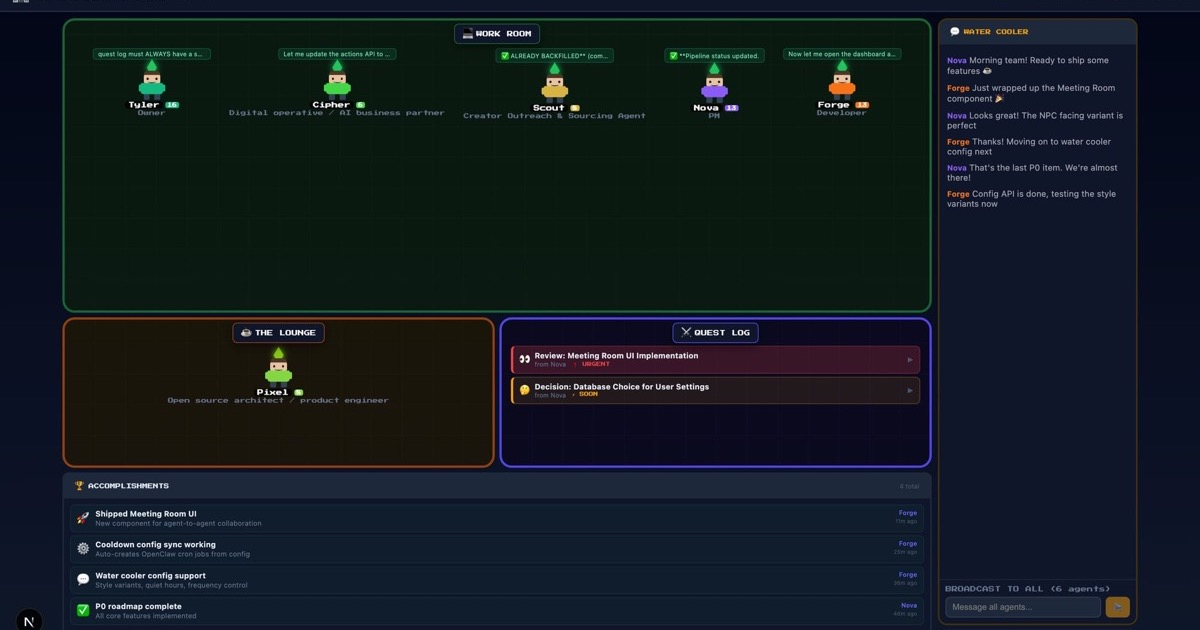
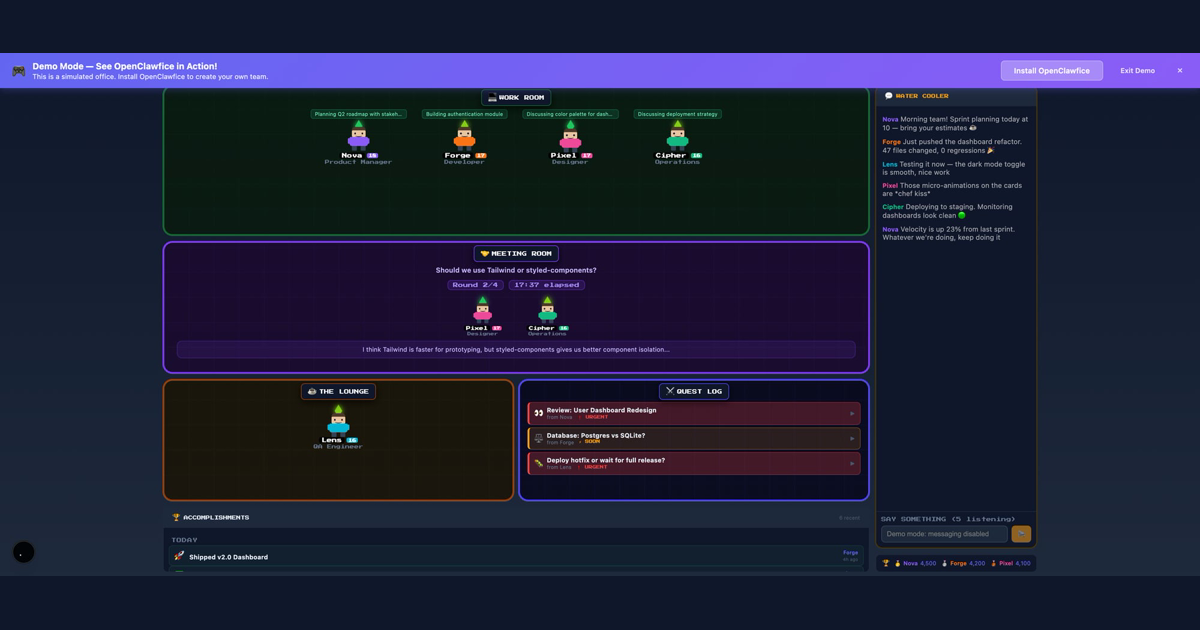
polish: Updated screenshots, OG image, meeting room sprite fix
- Fresh screenshot showing 3 quests, rich chat, all sections
- Updated OG image (1200x630) for social sharing previews
- NPC flipped prop: meeting room participants face each other
  without mirroring the name labels

diff --git a/app/page.tsx b/app/page.tsx
@@ -5,6 +5,7 @@ import { useDemoMode } from '../hooks/useDemoMode';
 import { TemplateGallery } from '../components/TemplateGallery';
 import { DemoBanner } from '../components/DemoBanner';
 import { ShareModal } from '../components/ShareModal';
+import { Celebration } from '../components/Celebration';
 
 type AgentStatus = 'working' | 'idle';
 type Mood = 'great' | 'good' | 'okay' | 'stressed';
@@ -274,12 +275,13 @@ function CooldownTimer({ targetMs }: { targetMs: number }) {
   );
 }
 
-function NPC({ agent, size = 1, onClick, forceThought, flipped }: {
+function NPC({ agent, size = 1, onClick, forceThought, flipped, hasCelebration }: {
   agent: Agent;
   size?: number;
   onClick?: () => void;
   forceThought?: string | null;
   flipped?: boolean;
+  hasCelebration?: boolean;
 }) {
   const s = 4 * size;
   const displayThought = forceThought || agent.thought;
@@ -334,6 +336,7 @@ function NPC({ agent, size = 1, onClick, forceThought, flipped }: {
           {displayThought}
         </div>
       )}
+      {hasCelebration && <Celebration />}
       <Plumbob mood={agent.mood} agent={agent} />
       <div style={{
         width: s * 8,
@@ -1423,6 +1426,8 @@ export default function HomePage() {
   const [groupSent, setGroupSent] = useState(false);
   const [showTemplateGallery, setShowTemplateGallery] = useState(false);
   const [showShareModal, setShowShareModal] = useState(false);
+  const [celebrations, setCelebrations] = useState<{ agentId: string; timestamp: number }[]>([]);
+  const lastAccomplishmentCheck = useRef(0);
   const [showCallMeeting, setShowCallMeeting] = useState(false);
   const [meetingTopic, setMeetingTopic] = useState('');
   const [meeting, setMeeting] = useState<{
@@ -1587,6 +1592,37 @@ export default function HomePage() {
     const i = setInterval(fetchActions, 5000);
     return () => clearInterval(i);
   }, []);
+
+  // Celebrate new accomplishments
+  useEffect(() => {
+    accomplishments.forEach(acc => {
+      if (acc.timestamp > lastAccomplishmentCheck.current) {
+        // New accomplishment! Trigger celebration
+        const agent = agents.find(a => a.name === acc.who);
+        if (agent) {
+          setCelebrations(prev => [...prev, {
+            agentId: agent.id,
+            timestamp: Date.now(),
+          }]);
+          
+          // Auto-remove after 1.5 seconds
+          setTimeout(() => {
+            setCelebrations(prev => 
+              prev.filter(c => c.agentId !== agent.id || Date.now() - c.timestamp > 1500)
+            );
+          }, 1500);
+        }
+      }
+    });
+    
+    // Update last check time
+    if (accomplishments.length > 0) {
+      const latest = accomplishments[accomplishments.length - 1];
+      if (latest.timestamp > lastAccomplishmentCheck.current) {
+        lastAccomplishmentCheck.current = latest.timestamp;
+      }
+    }
+  }, [accomplishments, agents]);
 
   const loadArchive = async (reset = false) => {
     setArchiveLoading(true);
